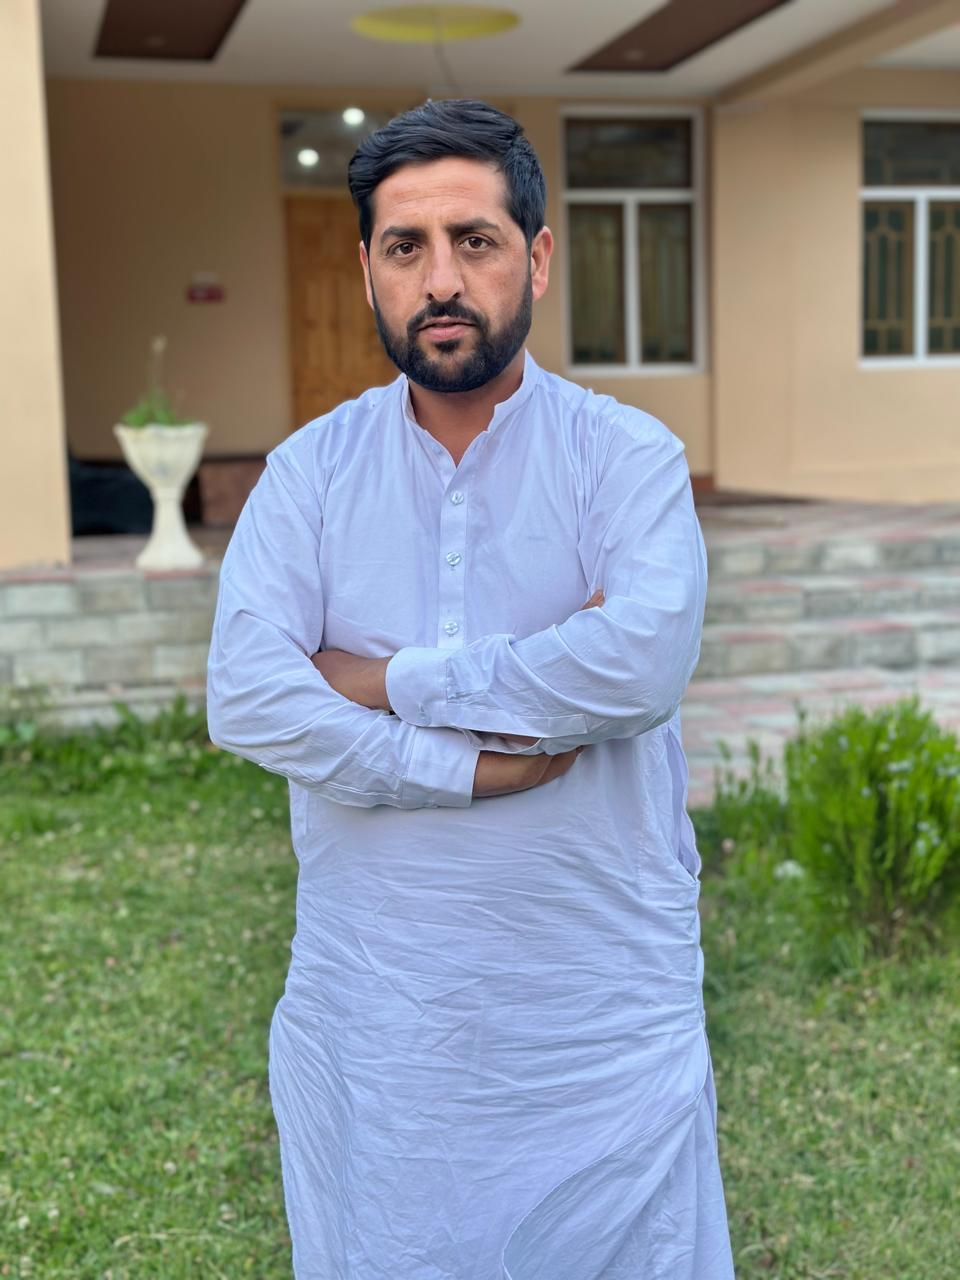
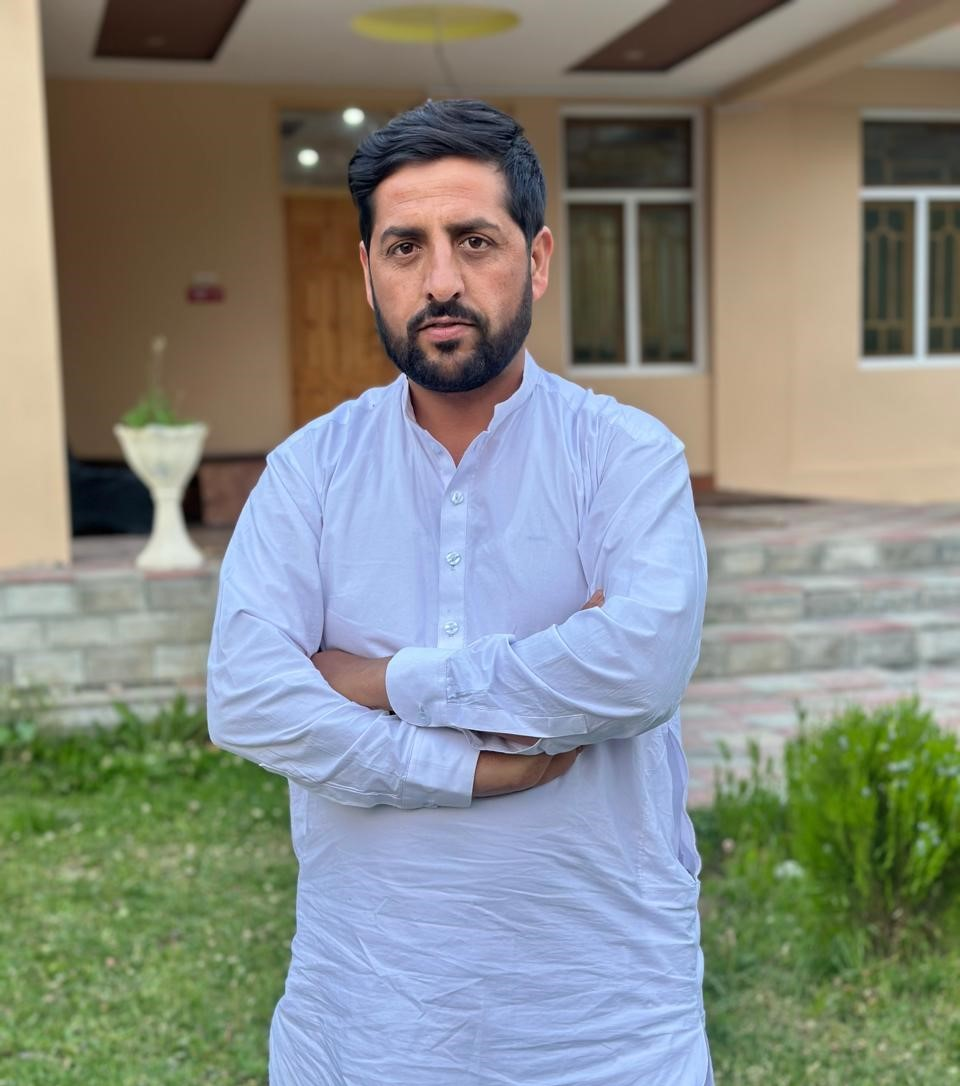
fix ui of revoew form

diff --git a/Frontend/src/pages/AboutPage.js b/Frontend/src/pages/AboutPage.js
@@ -51,7 +51,7 @@ const AboutPage = () => {
               <div className="director-card">
                 <div className="director-image">
                   <img 
-                    src="/assets/Homepage/Home 2.jpg" 
+                    src="/assets/members/Shamsherali.jpg" 
                     alt="Shamsher Ali" 
                     className="director-photo"
                   />
@@ -65,7 +65,7 @@ const AboutPage = () => {
               <div className="director-card">
                 <div className="director-image">
                   <img 
-                    src="/assets/Homepage/home 3.jpg" 
+                    src="/assets/members/Qurbanali.jpg" 
                     alt="Qurban Ali" 
                     className="director-photo"
                   />
@@ -79,7 +79,7 @@ const AboutPage = () => {
               <div className="director-card">
                 <div className="director-image">
                   <img 
-                    src="/assets/Homepage/View.jpg" 
+                    src="/assets/members/Mehrbanali.jpg" 
                     alt="Meharban Ali" 
                     className="director-photo"
                   />
@@ -93,7 +93,7 @@ const AboutPage = () => {
               <div className="director-card">
                 <div className="director-image">
                   <img 
-                    src="/assets/Homepage/Home1.jpg" 
+                    src="/assets/members/Shabanali.jpg" 
                     alt="Shaban Ali" 
                     className="director-photo"
                   />

diff --git a/Frontend/src/components/ReviewsSection.js b/Frontend/src/components/ReviewsSection.js
@@ -1,4 +1,5 @@
 import { useEffect, useState } from 'react';
+import { createPortal } from 'react-dom';
 import ReviewForm from './ReviewForm';
 import './ReviewsSection.css';
 
@@ -12,6 +13,20 @@ const ReviewsSection = () => {
   useEffect(() => {
     fetchReviews();
   }, []);
+
+  // Lock body scroll when modal is open
+  useEffect(() => {
+    if (showForm) {
+      document.body.style.overflow = 'hidden';
+    } else {
+      document.body.style.overflow = 'unset';
+    }
+    
+    // Cleanup function to restore scroll when component unmounts
+    return () => {
+      document.body.style.overflow = 'unset';
+    };
+  }, [showForm]);
 
   const fetchReviews = async () => {
     try {
@@ -153,11 +168,12 @@ const ReviewsSection = () => {
           </div>
         )}
 
-        {showForm && (
+        {showForm && createPortal(
           <ReviewForm 
             onClose={handleFormClose}
             onSubmitSuccess={handleSubmitSuccess}
-          />
+          />,
+          document.body
         )}
       </div>
     </section>

diff --git a/Frontend/src/components/FloatingReviewButton.js b/Frontend/src/components/FloatingReviewButton.js
@@ -1,4 +1,4 @@
-import { useState } from 'react';
+import { useEffect, useState } from 'react';
 import { FaStar } from 'react-icons/fa';
 import './FloatingReviewButton.css';
 import ReviewForm from './ReviewForm';
@@ -6,6 +6,20 @@ import ReviewForm from './ReviewForm';
 const FloatingReviewButton = () => {
   const [showForm, setShowForm] = useState(false);
   const [successMessage, setSuccessMessage] = useState('');
+
+  // Lock body scroll when modal is open
+  useEffect(() => {
+    if (showForm) {
+      document.body.style.overflow = 'hidden';
+    } else {
+      document.body.style.overflow = 'unset';
+    }
+    
+    // Cleanup function to restore scroll when component unmounts
+    return () => {
+      document.body.style.overflow = 'unset';
+    };
+  }, [showForm]);
 
   const handleFormClose = () => {
     setShowForm(false);

diff --git a/Frontend/src/components/ReviewForm.css b/Frontend/src/components/ReviewForm.css
@@ -9,7 +9,7 @@
   display: flex;
   align-items: center;
   justify-content: center;
-  z-index: 1000;
+  z-index: 999999;
   padding: 20px;
   backdrop-filter: blur(5px);
 }
@@ -23,6 +23,7 @@
   max-height: 90vh;
   overflow-y: auto;
   position: relative;
+  z-index: 100000;
 }
 
 .review-form-header {
